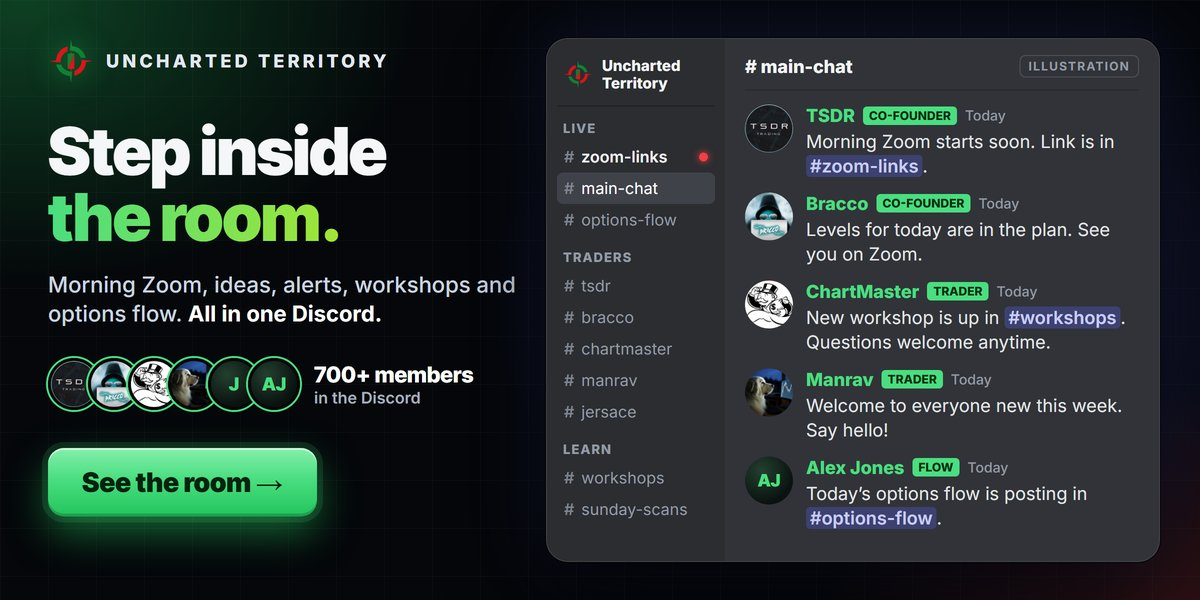
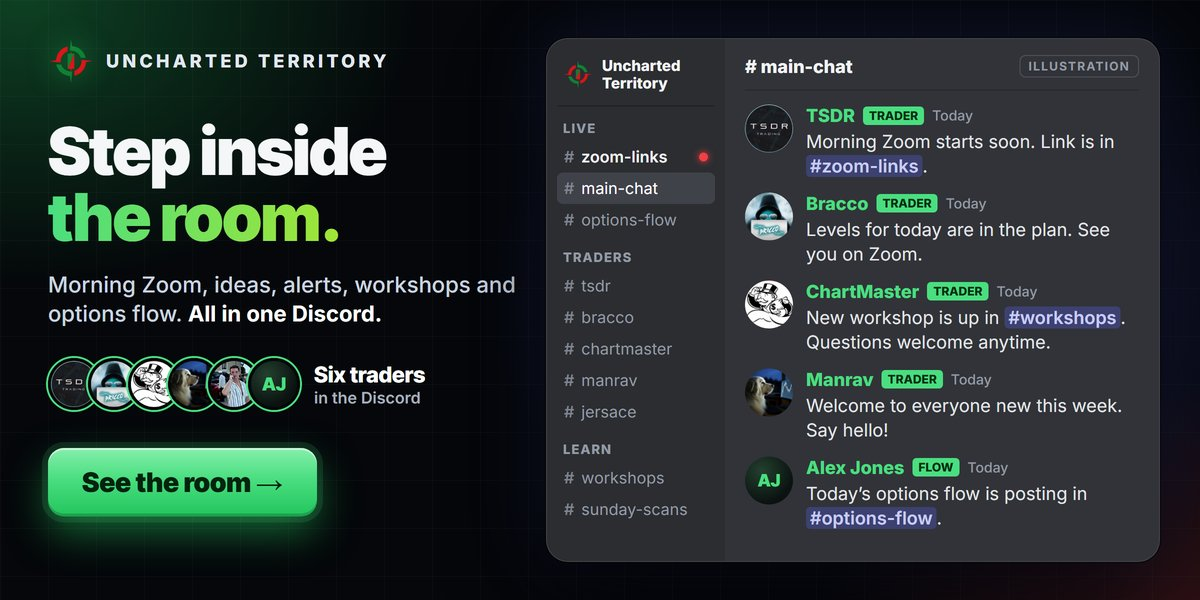
chore(live-trading-room): v3 team images (six equal traders, Jersace photo, no badges, no member count)
Same names, sizes and formats for the hero, Discord, Welcome and Reviews webps and 11 hosted
email JPGs (f02 f03 f04 f06 f07 f08 f09 f10 m01 m02 m04). New OG image og-live-trading-room-v3.jpg
(1200x600) so link previews refetch; og:image and twitter:image point at it, og:image:alt and the
hero alt list the six traders in the new order. No other copy changed.

Claude-Session: https://claude.ai/code/session_01JjFLXxupkXYJwL3pCgh4zr

diff --git a/app/public/live-trading-room/index.html b/app/public/live-trading-room/index.html
@@ -24,15 +24,15 @@
   <meta property="og:url" content="https://uctintelligence.com/live-trading-room" />
   <meta property="og:title" content="A live trading room run by traders who trade, and teach, every single day" />
   <meta property="og:description" content="TSDR and Bracco go live on Zoom every market morning before the open, lay out the plan and the levels, then trade the open on screen share and talk through every decision." />
-  <meta property="og:image" content="https://uctintelligence.com/live-trading-room/og-live-trading-room.jpg" />
+  <meta property="og:image" content="https://uctintelligence.com/live-trading-room/og-live-trading-room-v3.jpg" />
   <meta property="og:image:type" content="image/jpeg" />
   <meta property="og:image:width" content="1200" />
   <meta property="og:image:height" content="600" />
-  <meta property="og:image:alt" content="The people in the Uncharted Territory trading room: ChartMaster, Manrav, TSDR, Bracco, Jersace and Alex Jones." />
+  <meta property="og:image:alt" content="The people in the Uncharted Territory trading room: TSDR, Bracco, ChartMaster, Manrav, Jersace and Alex Jones." />
   <meta name="twitter:card" content="summary_large_image" />
   <meta name="twitter:title" content="A live trading room run by traders who trade, and teach, every single day" />
   <meta name="twitter:description" content="TSDR and Bracco go live on Zoom every market morning before the open and trade it on screen share. Alerts, options flow, workshops and Sunday Scans." />
-  <meta name="twitter:image" content="https://uctintelligence.com/live-trading-room/og-live-trading-room.jpg" />
+  <meta name="twitter:image" content="https://uctintelligence.com/live-trading-room/og-live-trading-room-v3.jpg" />
 
   <link rel="preload" as="font" type="font/woff2" href="/fonts/instrument-sans-v4-latin.woff2" crossorigin />
   <link rel="preload" as="image" href="/live-trading-room/room-traders-1600.webp"
@@ -426,7 +426,7 @@
              srcset="/live-trading-room/room-traders-800.webp 800w, /live-trading-room/room-traders-1600.webp 1600w"
              sizes="(max-width: 1120px) calc(100vw - 32px), 1080px"
              width="1600" height="800" fetchpriority="high"
-             alt="The people in the room: ChartMaster (swing ideas and workshops), Manrav (trade ideas and alerts), co-founders TSDR and Bracco, Jersace (trade ideas and alerts) and Alex Jones (options flow plus a team of three). See the room on Whop." /></a>
+             alt="The people in the room: TSDR and Bracco (morning Zoom), ChartMaster (swing trades), Manrav and Jersace (trade ideas) and Alex Jones (options flow). See the room on Whop." /></a>
       </div>
     </div>
 
